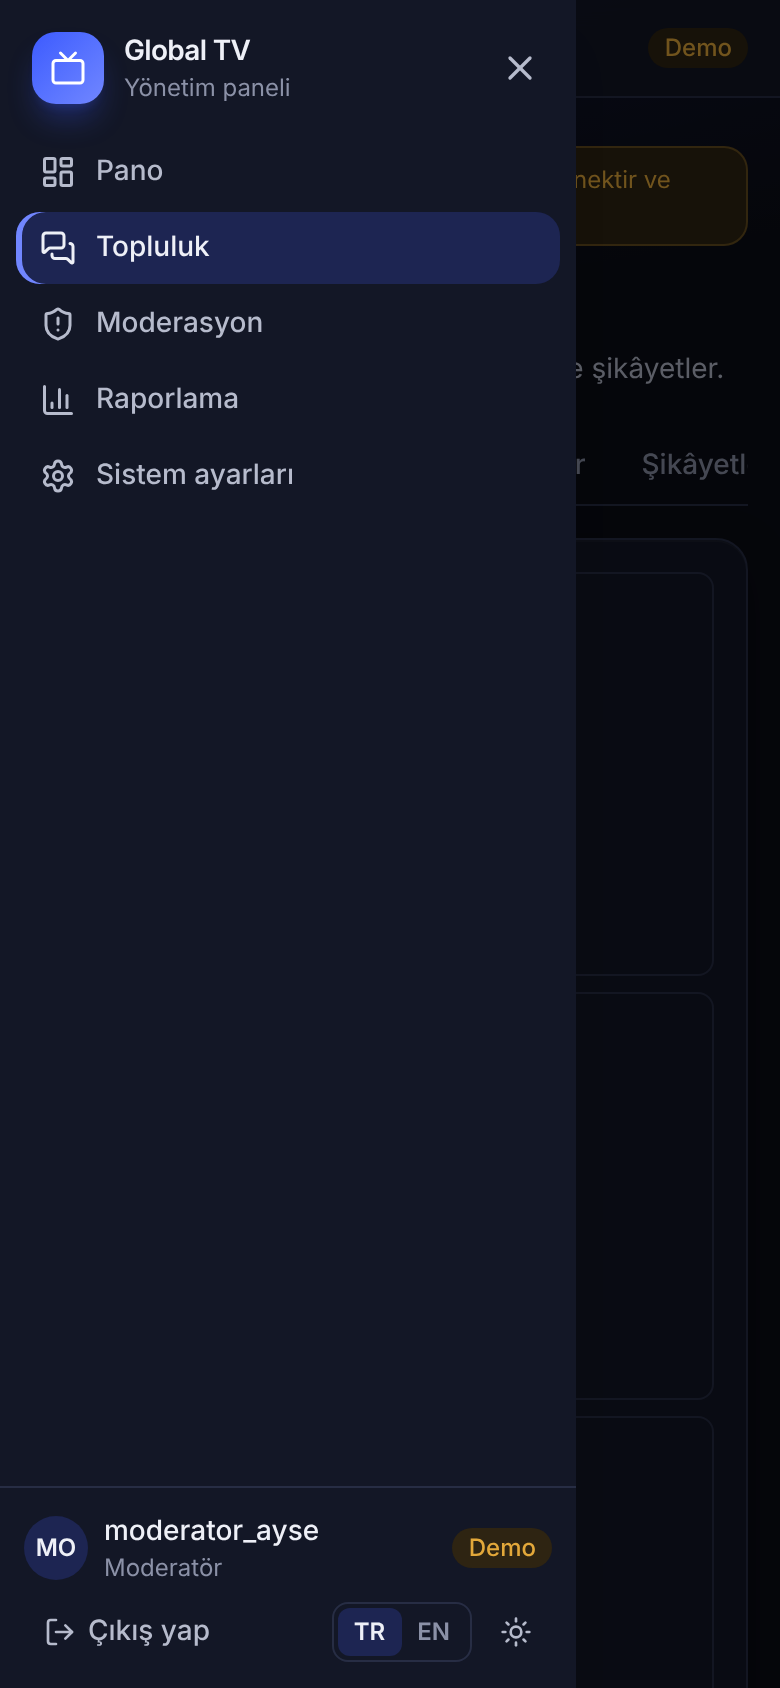
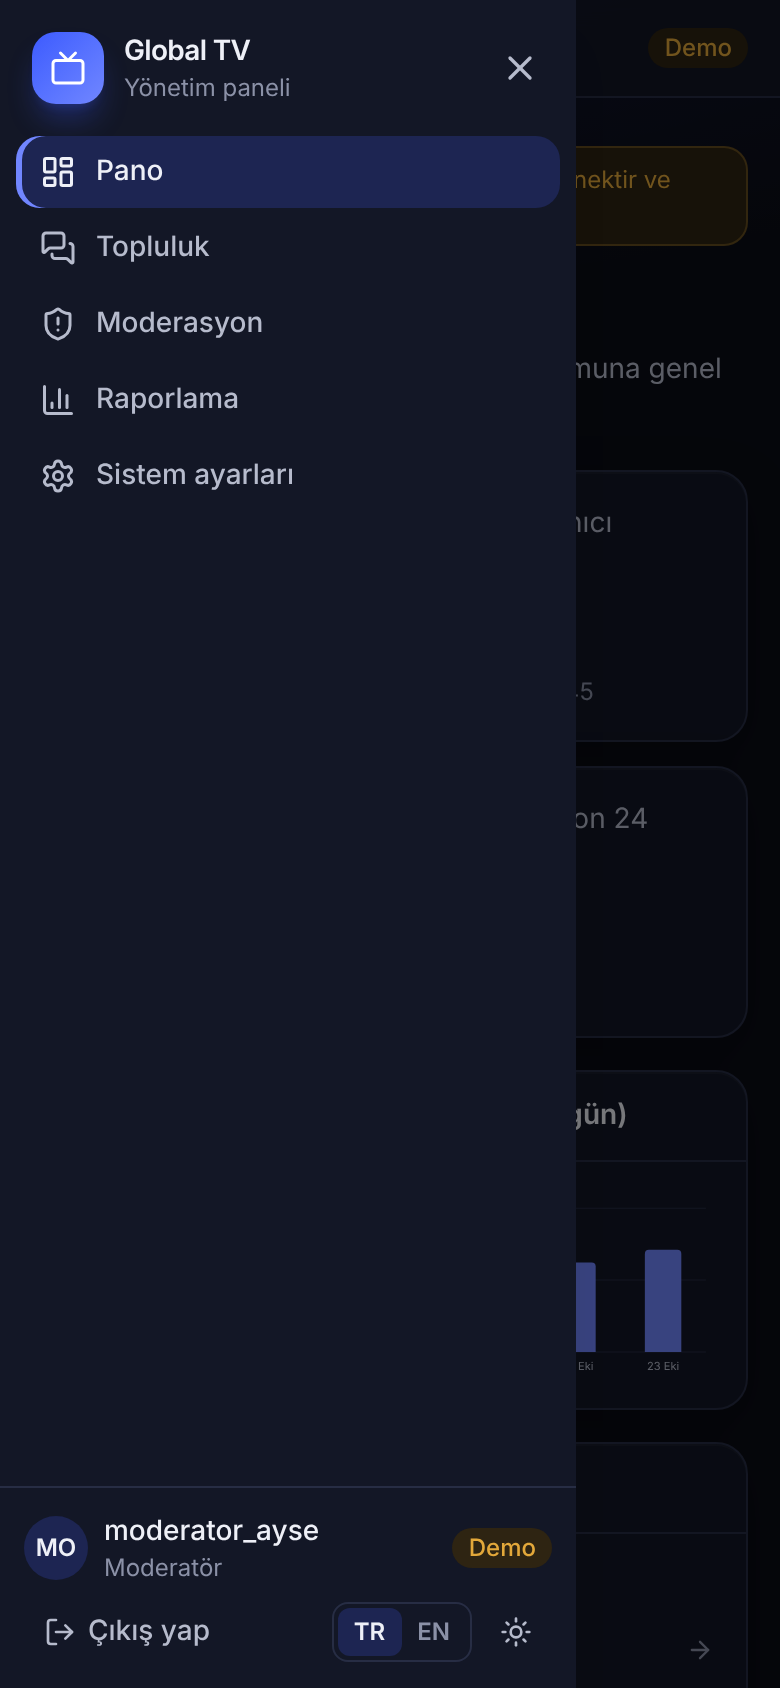
Global TV: mobil menü düzeltmesi, kalıcı test, panel v2 raporu ve ekran görüntüleri
- Mobil çekmece görünen ekran yüksekliğine (dvh) bağlandı; geniş yazı tipi ve İngilizce
  metinlerle alt kontroller ekran dışına taşıyordu (CI'da yakalandı)
- Regresyon testi: düzeltme olmadan düşüyor, düzeltmeyle geçiyor
- Panel v2 test raporu, güncel ekran görüntüleri, haftalık rapor eki

Claude-Session: https://claude.ai/code/session_01LW5MHLYqDrDqAwg5LwiHxo

diff --git a/global-tv/admin/src/components/Layout.tsx b/global-tv/admin/src/components/Layout.tsx
@@ -98,9 +98,10 @@ function UserBox() {
         </div>
         {api.mode === 'demo' && <Badge tone="warning">{t('common.demo')}</Badge>}
       </div>
-      <div className="flex items-center justify-between gap-2">
-        <Button variant="ghost" size="sm" onClick={signOut}><LogOut size={16} aria-hidden /> {t('shell.signOut')}</Button>
-        <Preferences />
+      {/* Dar ekranda (mobil menü) ve geniş yazı tiplerinde sığmazsa alt satıra geçer; düğmeler üst üste binmez. */}
+      <div className="flex flex-wrap items-center justify-between gap-2">
+        <Button variant="ghost" size="sm" className="shrink-0" onClick={signOut}><LogOut size={16} aria-hidden /> {t('shell.signOut')}</Button>
+        <div className="shrink-0"><Preferences /></div>
       </div>
     </div>
   );
@@ -151,12 +152,13 @@ export function Layout({ children }: { children: ReactNode }) {
       {open && (
         <div className="fixed inset-0 z-40 lg:hidden">
           <div className="absolute inset-0 bg-black/50" onClick={() => setOpen(false)} aria-hidden />
-          <aside role="dialog" aria-label={t('shell.menu')} className="absolute inset-y-0 left-0 flex w-72 max-w-[85vw] flex-col bg-surface shadow-xl">
+          <aside role="dialog" aria-label={t('shell.menu')}
+            className="absolute left-0 top-0 flex h-dvh w-72 max-w-[85vw] flex-col overflow-y-auto bg-surface shadow-xl">
             <div className="flex items-center justify-between pr-2">
               <Brand />
               <Button variant="ghost" size="sm" aria-label={t('shell.closeMenu')} onClick={() => setOpen(false)}><X size={20} /></Button>
             </div>
-            <div className="flex-1 overflow-y-auto px-2"><Nav onNavigate={() => setOpen(false)} /></div>
+            <div className="flex-1 px-2"><Nav onNavigate={() => setOpen(false)} /></div>
             <UserBox />
           </aside>
         </div>

diff --git a/global-tv/admin/e2e/admin.spec.ts b/global-tv/admin/e2e/admin.spec.ts
@@ -90,6 +90,26 @@ test('dil (TR/EN) ve tema (koyu/açık) seçimi', async ({ page }) => {
   await noHorizontalScroll(page);
 });
 
+test('mobil menünün alt kontrolleri görünür ekranda kalır (geniş yazı tipiyle de)', async ({ page, isMobile }) => {
+  test.skip(!isMobile, 'yalnızca mobil');
+  await page.goto('/');
+  // Sistem yazı tipi farklı cihazlarda daha geniş olabilir; en kötü durumu zorla.
+  await page.addStyleTag({ content: "*{font-family:'DejaVu Sans','Liberation Sans',sans-serif !important}" });
+  await page.getByLabel('E-posta').fill('admin@demo.local');
+  await page.getByLabel('Şifre').fill('demo1234');
+  await page.getByRole('button', { name: 'Giriş yap' }).click();
+  await page.getByRole('button', { name: 'Menüyü aç' }).click();
+  // CI'da hata İngilizce metinlerle ortaya çıktı: önce dili değiştir
+  await page.getByRole('button', { name: 'en', exact: true }).filter({ visible: true }).first().click();
+  const fits = await page.evaluate(() => {
+    const aside = document.querySelector('aside[role=dialog]')!;
+    return aside.getBoundingClientRect().bottom <= (window.visualViewport?.height ?? innerHeight) + 0.5;
+  });
+  expect(fits).toBe(true);
+  await page.getByRole('button', { name: /^Theme:/ }).filter({ visible: true }).first().click({ timeout: 5000 });
+  await expect(page.locator('html')).toHaveAttribute('data-theme', 'light');
+});
+
 test('yetkisiz hesap giriş yapamaz', async ({ page }) => {
   await page.goto('/');
   await page.getByLabel('E-posta').fill('izleyici@demo.local');

diff --git a/global-tv/docs/test-raporlari/2026-10-23-yonetim-paneli-v2-raporu.md b/global-tv/docs/test-raporlari/2026-10-23-yonetim-paneli-v2-raporu.md
@@ -1,0 +1,103 @@
+# Rapor — Yönetim Paneli v2 (23 Ekim 2026)
+
+Dal: `claude/global-tv-baslangic` · Ana dala birleştirme, canlıya dağıtım ve ücretli işlem **yok** ·
+Supabase'de yeni proje **yok** · Gerçek/izinsiz TV yayını **yok** · Çalışma adı "Global TV" korunuyor.
+
+## 1. GitHub güvenliği
+
+Ayrıntı: [../07-github-guvenlik-denetimi.md](../07-github-guvenlik-denetimi.md) (§7.6 yeniden denetim)
+
+| Kontrol | Sonuç |
+|---|---|
+| Depo görünürlüğü | ⚠ **Herkese açık** (değiştirilmedi; onayınız bekleniyor) |
+| Kod + tüm commit geçmişi (7 dal) | ✅ Gizli anahtar / erişim bilgisi / imza dosyası yok (gitleaks + hedefli tarama) |
+| CI dosyası | ✅ Gizli değişken kullanılmıyor; **iş akışı izni yalnızca okuma** olacak şekilde sertleştirildi |
+| Test APK'ları (9 adet) | ✅ Boş Supabase ayarıyla (demo modu) derleniyor; gizli bilgi içermiyor. Herkese açık depoda indirilebilir |
+| Private yapmanın etkisi | Güvenli. Actions: aylık 2.000 dk / 500 MB kota (ödeme yöntemi yoksa ücret çıkmaz); Vercel kişisel hesapta gizli depoyu destekler |
+
+## 2. Yönetim paneli — çalışan ilk sürüm
+
+**Türkçe ve İngilizce** (anında geçiş, tarayıcıda hatırlanır) · **koyu premium tema varsayılan**, açık tema seçeneği ·
+masaüstü ve mobil uyumlu · demo verisiyle çalışır, Supabase'e hazır.
+
+| Modül | İçerik | Durum |
+|---|---|---|
+| Pano | Toplam kullanıcı, aktif kullanıcı (bugün / 7 gün), yayındaki kanallar, izlenme süresi, günlük izlenme grafiği, dikkat listesi | ✅ |
+| Kanal yönetimi | Ekleme, düzenleme, ülke, yayın dili, kategori, yayın URL'si (yalnızca https) + kategori yönetimi | ✅ |
+| Yayın lisansları | Hak belgesi yükleme (PDF/JPG/PNG, 10 MB, özel depo), geçerlilik tarihleri, ülke bazlı coğrafi kısıt, 14 gün uyarısı, ülke görünümü | ✅ |
+| Topluluk yönetimi | Canlı sohbet odaları (kilitleme, yavaş mod, 24 saatlik mesaj/katılımcı/şikâyet), mesajlar ve yorumlar (gizle / kalıcı sil), kullanıcı şikâyetleri | ✅ |
+| Moderasyon | Kullanıcı engelleme ve susturma, moderatör rolleri (rol atama), moderasyon işlem kayıtları | ✅ |
+| Reklam yönetimi | AdMob reklam alanları (biçim, platform, sınır, test bayrağı) + sponsorlu içerik (yerleşim, kanal, dönem, https bağlantı) | ✅ (yalnızca test) |
+| Raporlama | Kullanıcı (aktif, yeni kayıt, ülke), yayın (kanal ve platform bazlı izlenme), sohbet (mesaj, şikâyet nedenleri, moderasyon), reklam; 7/30/90 gün; CSV indirme | ✅ |
+| Sistem ayarları | Uygulama dilleri, sürümler (en son / en düşük), bakım modu, TR/EN duyurular | ✅ |
+| Denetim kaydı | Kim, ne, hangi kayıt, ne zaman; silinen mesajın içeriği kanıt olarak saklanır | ✅ |
+
+### Rol bazlı yetkilendirme — üç katman
+| Katman | Uygulama |
+|---|---|
+| Veritabanı (asıl) | `role_permissions` + `has_permission()`, RLS politikaları, profil koruma tetikleyicisi (kendi rolünü değiştirme, yöneticiyi kısıtlama, son yönetici koruması), oda kilidi / yavaş mod tetikleyicisi, özel belge deposu politikaları |
+| Sunucu | `admin_*` fonksiyonları izni yeniden kontrol eder; denetim ve moderasyon kayıtları tetikleyiciyle tutulur, istemci değiştiremez veya silemez |
+| Arayüz | Menü, düğmeler ve sayfalar izne göre; doğrudan adres yazılarak açılamaz |
+
+| Rol | Erişim |
+|---|---|
+| Yönetici | Tümü |
+| İçerik yöneticisi | Pano, kanallar, yayın lisansları, duyurular, raporlar (reklam hariç) |
+| Moderatör | Pano, topluluk, moderasyon, raporlar (reklam hariç) |
+| Kullanıcı | Panele giremez |
+
+### Tasarım
+Daha önce hazırlanan mobil konsept dosyası bulunamadı: depoda yok, Canva'da "Global TV" tasarımı yok, Drive'da ilgili dosya yok.
+Panel, talimattaki tarife (modern, koyu, premium) ve mobil uygulamanın marka rengine (indigo `#3D5AFE`) göre tasarlandı.
+Grafik rengi kontrast ve renk körlüğü doğrulamasından geçti. Konsept iletildiğinde renk ve tipografi tek dosyadan (`src/index.css`) uyarlanabilir.
+**Mobil uygulama ekranları değiştirilmedi.**
+
+## 3. Ekran görüntüleri
+
+Klasör: [../ekran-goruntuleri/](../ekran-goruntuleri/)
+
+| Dosya | İçerik |
+|---|---|
+| `01-giris.png` | Giriş (TR/EN ve tema seçici) |
+| `02-pano.png` | Pano |
+| `03-kanallar.png` | Kanal yönetimi |
+| `04-yayin-lisanslari.png` | Yayın lisansları + belge + ülke görünümü |
+| `05-topluluk.png`, `05b-topluluk-sikayetler.png` | Sohbet odaları, şikâyetler |
+| `06-moderasyon.png` | Kullanıcılar ve roller |
+| `07-reklam.png` | Reklam alanları |
+| `08-raporlama.png` | Raporlama |
+| `09-ayarlar.png` | Sistem ayarları |
+| `10-denetim-kaydi.png` | Denetim kaydı |
+| `11-pano-ingilizce.png` | İngilizce arayüz |
+| `12-pano-acik-tema.png` | Açık tema |
+| `13-mobil-pano.png`, `14-mobil-topluluk.png`, `15-mobil-menu.png` | Mobil |
+
+## 4. Test sonuçları
+
+| Alan | Sonuç |
+|---|---|
+| Veritabanı kuralları | ✅ **83/83** (yeni topluluk/analitik/sponsorluk/belge deposu 28 + yönetim 32 + önceki 23) |
+| Panel tip kontrolü | ✅ |
+| Panel birim + arayüz testleri | ✅ **61/61** (TR/EN sözlük tutarlılığı, izinlerin veritabanıyla birebir eşleşmesi dahil) |
+| Panel tarayıcı testleri (masaüstü + mobil) | ✅ **11/11** (+1 yalnızca mobil test, masaüstünde atlanır) |
+| Panel bağımlılık güvenliği | ✅ 0 açık |
+| Gizli anahtar taraması | ✅ |
+| Mobil analiz / testler | ✅ temiz / **21/21** (mobil kod değişmedi) |
+| **Android** emülatörü, uçtan uca | ✅ 1/1 (CI, commit `dd70207`) |
+| **iOS** simülatörü, derleme + uçtan uca | ✅ 1/1 (CI, commit `dd70207`) |
+
+### Bulunan ve düzeltilen hatalar
+| Hata | Neden | Düzeltme / kanıt |
+|---|---|---|
+| Mobil menünün altındaki tema ve dil düğmelerine dokunulamıyordu (CI'da yakalandı) | Çekmece, tarayıcının düzen yüksekliğine göre konumlanıyordu; geniş yazı tipi ve İngilizce metinlerle görünen ekranın dışına taşıyordu | Çekmece görünen ekran yüksekliğine (`dvh`) bağlandı ve kaydırılabilir yapıldı. Yeni test eklendi; düzeltme olmadan **düşüyor**, düzeltmeyle **geçiyor** |
+| Yavaş mod seçicisinde "Kapalı" durumu kesik görünüyordu | Dar alan | Seçici genişletildi |
+
+## 5. Eksik kalan işler
+| İş | Bağımlılık |
+|---|---|
+| Panelin ve uygulamanın gerçek Supabase'e bağlanması; belge deposunun gerçek ortamda denenmesi | Ayrı Supabase hesabı (onay) |
+| Yönetici hesapları için MFA zorunluluğu | Gerçek sunucuya geçiş |
+| Mobil uygulamanın izlenme ve aktiflik verisi göndermesi; kilitli oda ve yavaş mod uyarılarını göstermesi (şu an genel hata mesajı gösterir) | Sonraki geliştirme adımı |
+| Gerçek reklam istatistikleri | AdMob hesabı (onay) |
+| Panelin barındırılması | Barındırma yeri kararı; canlıya dağıtım onaya bağlı |
+| Tasarım konseptinin panele birebir uygulanması | Konsept dosyasının iletilmesi |

diff --git a/global-tv/docs/haftalik-raporlar/2026-H1.md b/global-tv/docs/haftalik-raporlar/2026-H1.md
@@ -113,3 +113,13 @@ Güvenlik denetimi: [../07-github-guvenlik-denetimi.md](../07-github-guvenlik-de
 - Güvenlik denetimi: sızmış anahtar yok; depoyu gizli yapmak güvenli (onay bekleniyor)
 - Web yönetim paneli: 8 modül, rol bazlı yetki (veritabanı + sunucu + arayüz), değiştirilemez denetim kaydı
 - Testler: veritabanı 55/55, panel 38/38 + tarayıcı 8/8, mobil 21/21, Android ✅, iOS ✅
+
+---
+
+## Ek 4 — 23 Ekim: Yönetim paneli v2
+
+Ayrıntılı rapor: [../test-raporlari/2026-10-23-yonetim-paneli-v2-raporu.md](../test-raporlari/2026-10-23-yonetim-paneli-v2-raporu.md)
+
+- Panel: Türkçe/İngilizce, koyu premium tema; yeni modüller: topluluk, raporlama, sponsorlu içerik, lisans belgesi yükleme
+- Testler: veritabanı 83/83, panel 61/61 + tarayıcı 11/11, mobil 21/21, Android ✅, iOS ✅
+- CI'da yakalanan mobil menü hatası düzeltildi ve kalıcı testle korunuyor
